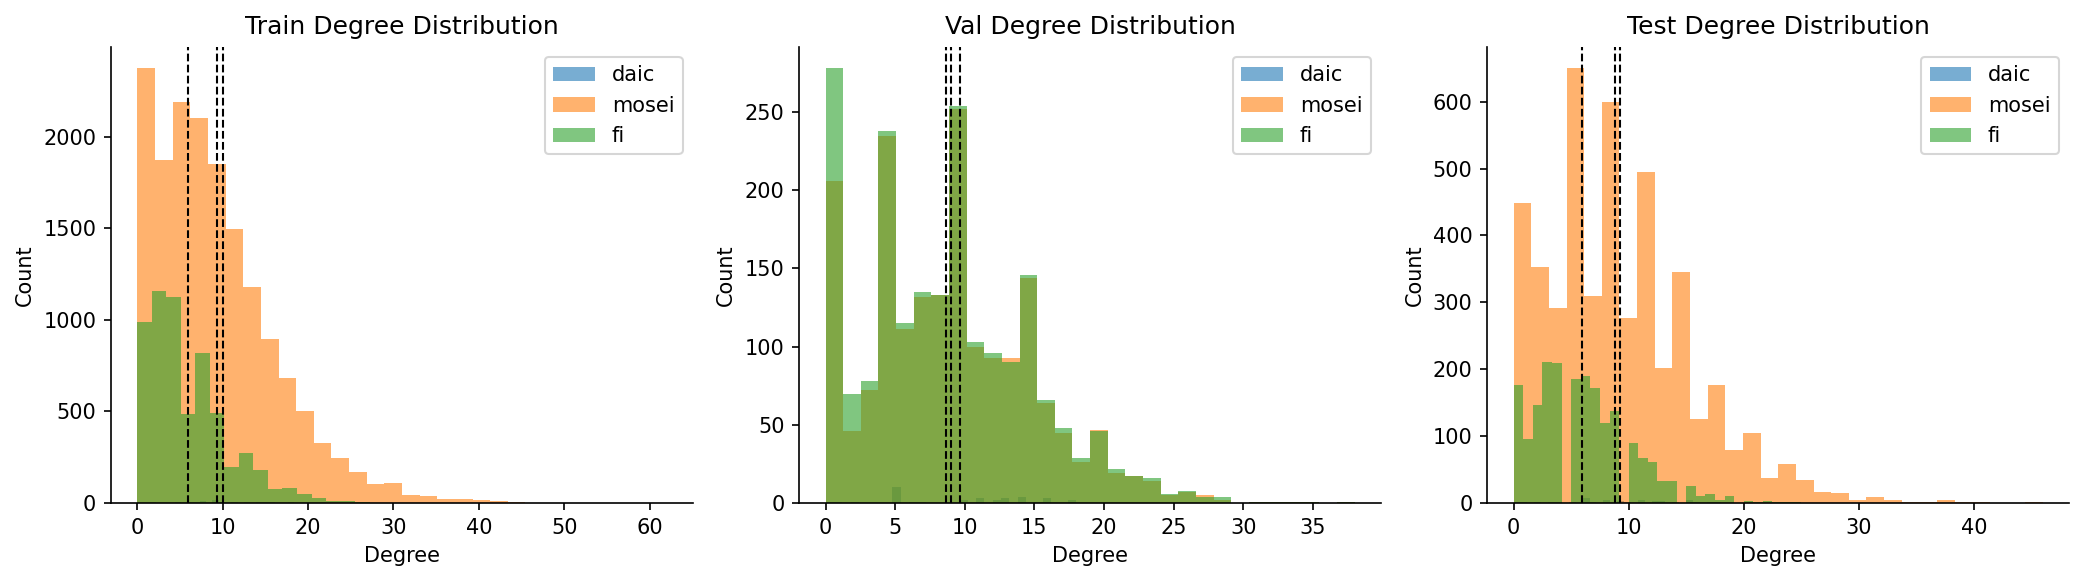
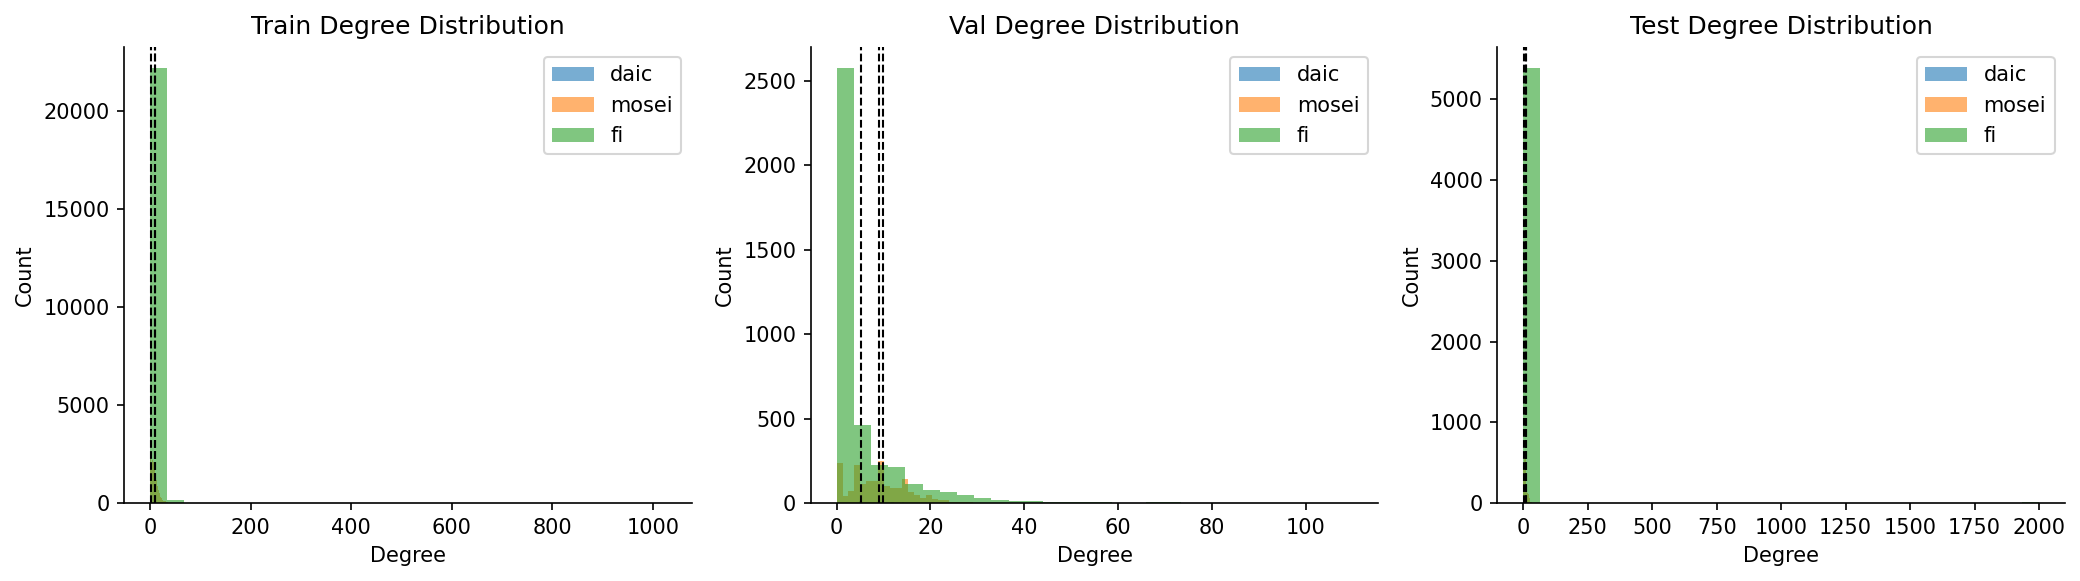
fix(phase06_graph): use LOCAL indices per split for edge filtering
Root cause: index_map stored GLOBAL indices (cumulative across all datasets),
but build_knn_graph returns LOCAL indices (0-based within each split's graph).

When filtering edges for a dataset-split (e.g., FI/train), the code was
comparing LOCAL edge indices (16372-22371) against GLOBAL ranges (22966-28966).
Result: FI always got 0 edges, causing empty visualizations.

Fix: Track per-split LOCAL row counts. For train graph (22372 nodes):
- DAIC/train: local indices 0-107 (matching graph node 0-107)
- MOSEI/train: local indices 107-16372
- FI/train: local indices 16372-22372 (matching graph node 16372-22372)

Edge counts now correct after fix:
- DAIC/val: 350 (was wrongly computed before)
- FI/train: 60000 (was 0 before)
- All cross-dataset edges properly counted

Also kept the edge_weights fix from previous commit (was missing from stats dict).

diff --git a/scripts/phase06_graph.py b/scripts/phase06_graph.py
@@ -352,21 +352,28 @@ def concatenate_all_splits(all_embeddings: dict, all_metadata: dict,
 
     split_map = {'train': 0, 'val': 1, 'test': 2}
 
+    # FIX: Track per-split row counts (LOCAL indices within each split's graph)
+    # build_knn_graph operates on split-masked embeddings, returning LOCAL indices
+    # So we need local ranges, not global ranges
+    split_row_counts = {0: 0, 1: 0, 2: 0}  # train=0, val=1, test=2
+
     for dataset in ['daic', 'mosei', 'fi']:
         for split in ['train', 'val', 'test']:
             if dataset in all_embeddings and split in all_embeddings[dataset]:
                 embs = all_embeddings[dataset][split]
                 meta = all_metadata[dataset][split]
 
-                start_idx = len(all_embs)
-                end_idx = start_idx + len(embs)
+                split_id = split_map[split]
+                local_start = split_row_counts[split_id]  # LOCAL index within this split's graph
+                local_end = local_start + len(embs)
+                split_row_counts[split_id] = local_end
 
                 all_embs.append(embs)
                 dataset_ids.extend([dataset] * len(embs))
-                split_ids.extend([split_map[split]] * len(embs))
+                split_ids.extend([split_id] * len(embs))
                 task_ids.extend(meta['task_ids'])
 
-                index_map[(dataset, split)] = (start_idx, end_idx)
+                index_map[(dataset, split)] = (local_start, local_end)
 
     global_embeddings = np.vstack(all_embs) if all_embs else np.empty((0, hidden_dim))
     global_split_ids = np.array(split_ids, dtype=np.int64)
